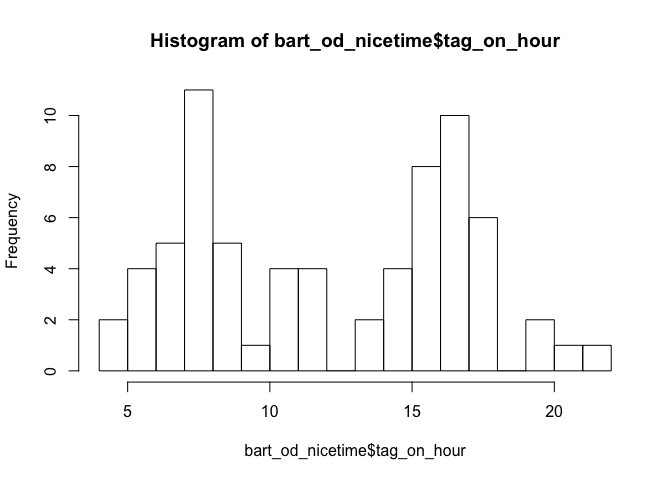
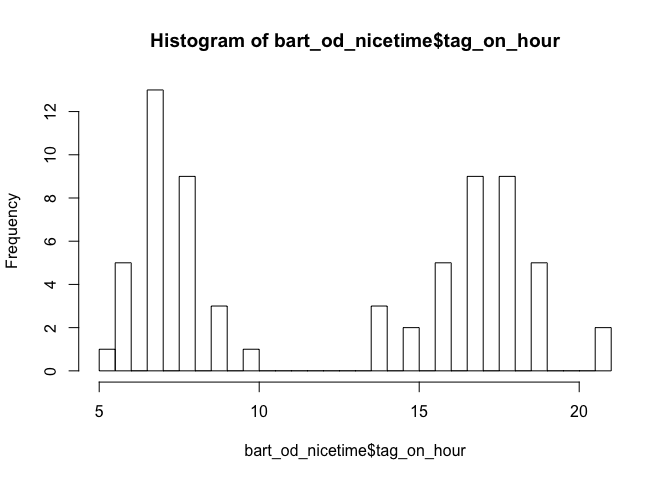
Update README

diff --git a/README.md b/README.md
@@ -23,7 +23,10 @@ It can be used to help answer questions like the following:
 1.  What are Station-to-Station Tabulations for Fixed-Guideway systems?
 2.  What are Major Transfer Movements?
 
-For example: - BART to/from MUNI - Ferry Service to BART - The above movements are (ideally) station and route specific
+For example:   
+-   BART to/from MUNI      
+-   Ferry Service to BART      
+-   The above movements are (ideally) station and route specific    
 
 Installation
 ============
@@ -65,14 +68,14 @@ library(DBI)
 library(dbplyr)
 library(dplyr)
 library(clpr)
-source("~/.keys/rs.R")
+source("~/Documents/connect_db.R")
 rs <- connect_rs()
 date <- "2016-04-25"
 transactions_tbl <- sample_day_of_transactions(rs,date,n_users=100)
 transactions_df <- as_tibble(transactions_tbl)
 ```
 
-First, lets use the `drop_tagons` function to change the unit of observation from transactions to rides, where a ride is a ride on an operator.
+First, let's use the `drop_tagons` function to change the unit of observation from transactions to rides, where a ride is a ride on an operator.
 
 ``` r
 rides_df <- drop_tagons(transactions_df)
@@ -81,19 +84,18 @@ rides_df <- drop_tagons(transactions_df)
 We can also create a dataframe summarizing transfers within a given time window (in minutes), using the `create_transfer_df` function.
 
 ``` r
-transfer_df <- create_transfer_df(rides_df, 120) # 120 minutes
+transfer_df <- create_transfer_df(rides_df, 120) #120 minutes
 knitr::kable(transfer_df)
 ```
 
 | participantname.transfer | participantname     |  from\_operator\_id|  to\_operator\_id|  num\_transfers|  num\_discounted|  transfer\_revenue|
 |:-------------------------|:--------------------|-------------------:|-----------------:|---------------:|----------------:|------------------:|
-| AC Transit               | BART                |                   1|                 4|               0|                0|                0.0|
-| BART                     | AC Transit          |                   4|                 1|               0|                0|                0.0|
-| BART                     | BART                |                   4|                 4|               1|                0|                3.2|
-| BART                     | SF Muni             |                   4|                18|               0|                0|                0.0|
-| Golden Gate Transit      | Golden Gate Transit |                  11|                11|               1|                1|                6.2|
-| SF Muni                  | BART                |                  18|                 4|               0|                0|                0.0|
-| SF Muni                  | SF Muni             |                  18|                18|               0|                0|                0.0|
+| BART                     | East Bay            |                   4|                 8|               0|                0|                  0|
+| BART                     | SF Muni             |                   4|                18|               0|                0|                  0|
+| Caltrain                 | SF Muni             |                   6|                18|               0|                0|                  0|
+| East Bay                 | BART                |                   8|                 4|               0|                0|                  0|
+| Golden Gate Transit      | Golden Gate Transit |                  11|                11|               0|                0|                  0|
+| SF Muni                  | BART                |                  18|                 4|               0|                0|                  0|
 
 Alternatively, we can use the `bart_transactions_as_transfers` function to change the unit of observation from transactions to rides on BART only, with additional information about the rides that individuals may have taken before or after boarding BART. For example, taking a ferry and then BART.
 
@@ -101,9 +103,9 @@ Alternatively, we can use the `bart_transactions_as_transfers` function to chang
 bart_od <- bart_transactions_as_transfers(transactions_df)
 ```
 
-The outcome includes the time of the previous transaction to BART tag-on. For example, a user tagged off of the ferry at 7:05 and then onto bart at 7:20. Or, a user tagged onto an SF Muni bus at 7:00 and then onto bart at 7:30. It also includes the time they tagged onto the following ride.
+The outcome includes the time of the previous transaction to BART tag-on. For example, a user tagged off of the ferry at 7:05 and then onto BART at 7:20. Or, a user tagged onto an SF Muni bus at 7:00 and then onto BART at 7:30. It also includes the time they tagged onto the following ride.
 
-You can use use the convenience function `spread_time_column` to spread the timestamp column into day of year, month, hour, and minute integers.
+We can use the convenience function `spread_time_column` to spread the timestamp column into day of year, month, hour, and minute integers.
 
 ``` r
 out_time_df <- spread_time_column(bart_od$transaction_time, prefix="tag_out_")
@@ -111,7 +113,7 @@ in_time_df <- spread_time_column(bart_od$time_of_previous, prefix="tag_on_")
 bart_od_nicetime <- cbind(bart_od,in_time_df,out_time_df)
 ```
 
-This can working with the time data easier. For example, plotting a histogram of the tag on hour.
+This can make working with the time data easier. For example, plotting a histogram of the tag on hour.
 
 ``` r
 hist(bart_od_nicetime$tag_on_hour, breaks=24)
